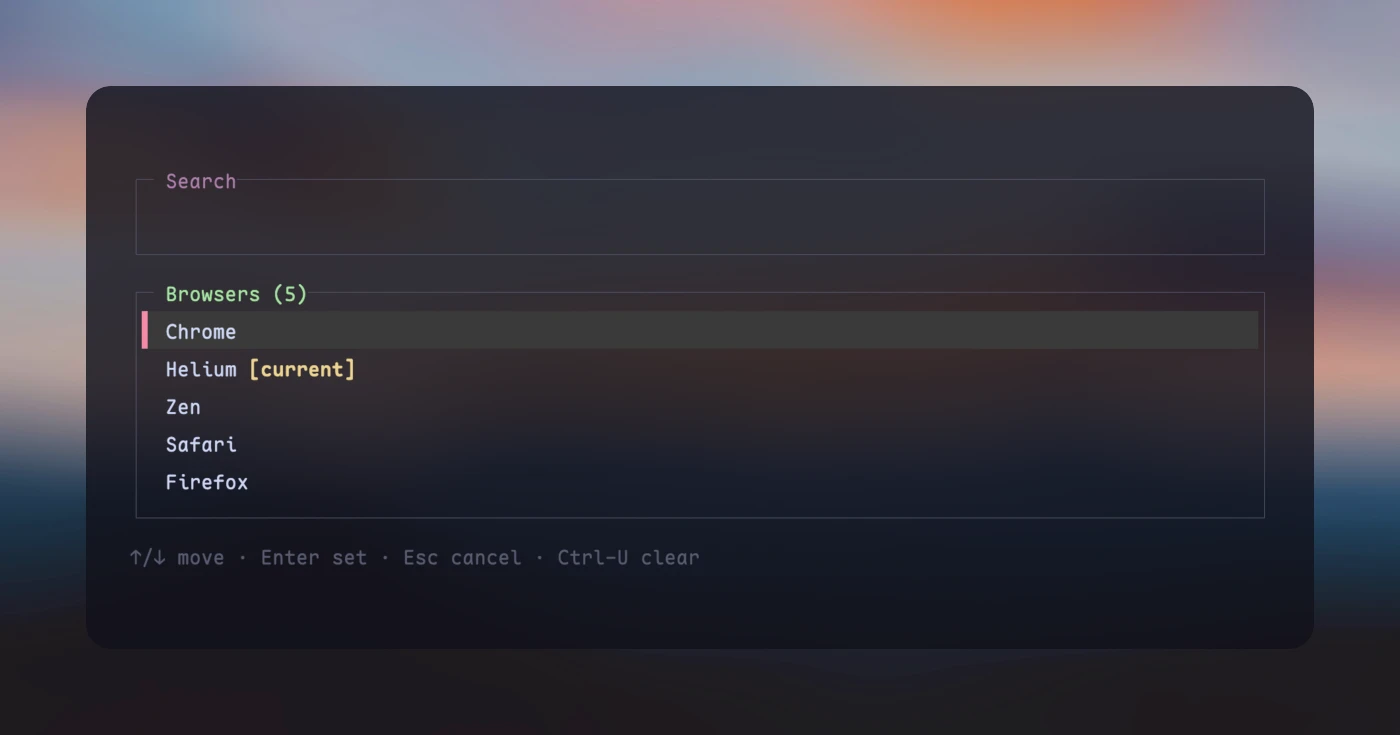
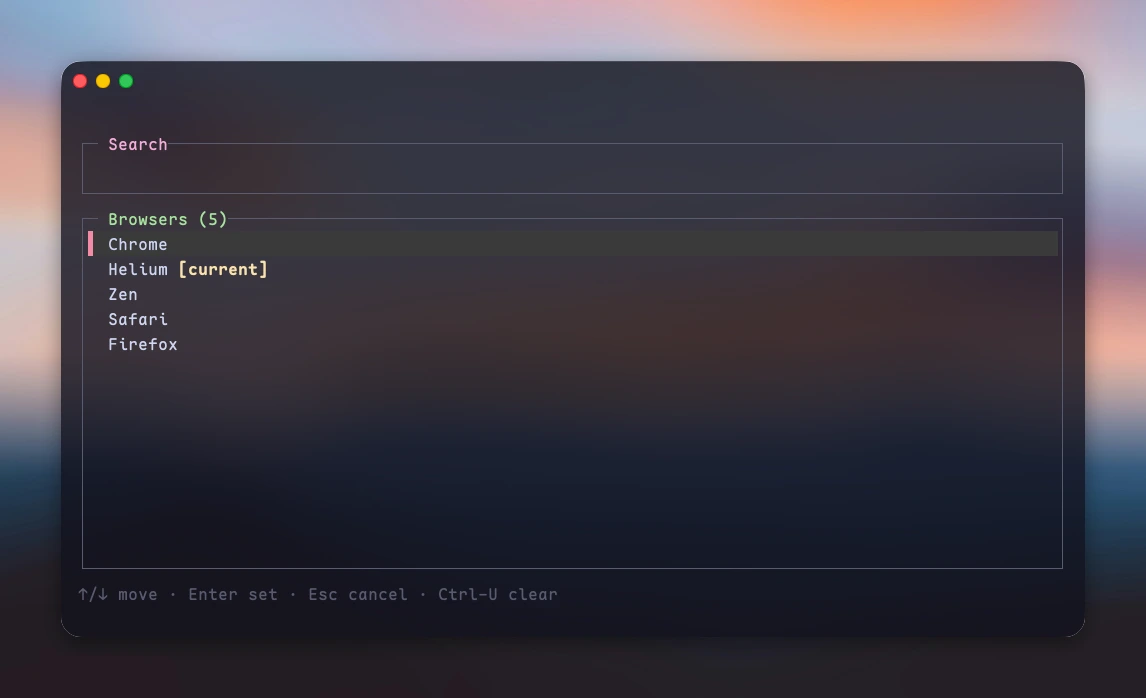
docs: use the author's own capture as the cover
Replace the composed hero with a real capture of the picker running in Ghostty:
actual macOS window chrome over the blurred desktop, in the author's own theme
and font. Converted to WebP q92, 369 KB -> 21.7 KB.

Drop the other image files, including the wallpaper the previous hero was built
from, leaving assets/cover.webp as the only image in the repo.

diff --git a/README.md b/README.md
@@ -1,6 +1,6 @@
 # defbrow
 
-<img src="assets/cover.webp" alt="The defbrow picker: a Search field above a browser list reading Chrome, Helium [current], Zen, Safari and Firefox, with the selected row marked by a rail, and a footer reading: up/down move, Enter set, Esc cancel, Ctrl-U clear." width="760">
+<img src="assets/cover.webp" alt="A defbrow window over a blurred sunset desktop: a Search field above a browser list reading Chrome, Helium [current], Zen, Safari and Firefox, with the selected row marked by a rail, and a footer reading: up/down move, Enter set, Esc cancel, Ctrl-U clear." width="760">
 
 A small Rust CLI for choosing the default browser on macOS and Linux, with a searchable ratatui picker that inherits your terminal colors.
 
